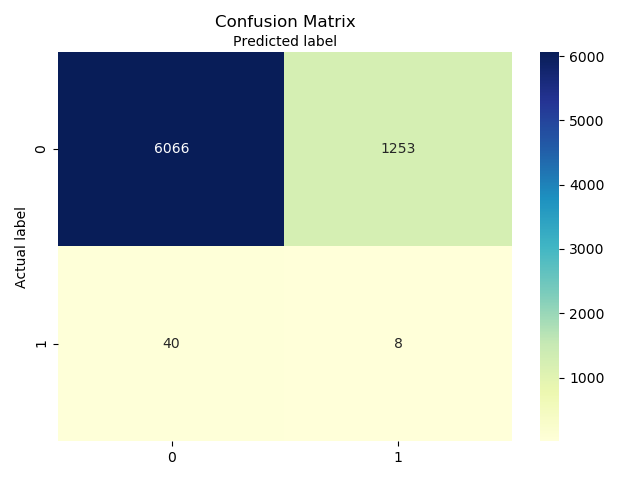
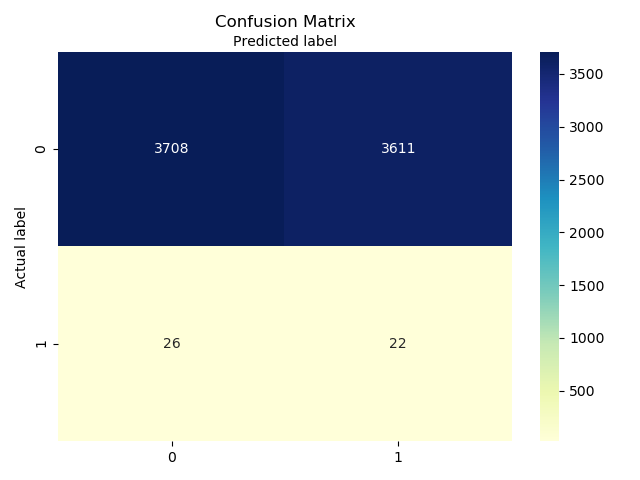
add completed experiments plot, compare training cross validation run and validation set predictions of a few runs to make sure we are not overfitting

diff --git a/experiments.py b/experiments.py
@@ -1,4 +1,4 @@
-from program_run_start_to_end import predict_cross_val_train_set
+from program_run_start_to_end import predict_cross_val_train_set, predict_test_validation_set
 import numpy as np
 import sklearn.metrics as metrics
 import matplotlib.pyplot as plt
@@ -16,12 +16,12 @@ def run_experiment_balance_solver(balancing_type, solver):
     for threshold in thresholds_list:
         for ngram in ngrams_list:
 
-            train_OUTPUT, predicted_OUTPUT, prediction_probs = predict_cross_val_train_set(0.4,
+            train_OUTPUT, predicted_OUTPUT, prediction_probs = predict_test_validation_set(0.4,
                                                                                           balancing_type,
                                                                                           solver,
                                                                                           ngram[0],
                                                                                           ngram[1])
-            plot(train_OUTPUT, predicted_OUTPUT, prediction_probs, balancing_type, solver, threshold, ngram[0],
+            plot(train_OUTPUT, predicted_OUTPUT, prediction_probs, balancing_type, solver, 0.4, ngram[0],
                                   ngram[1])
             break
         break
@@ -42,90 +42,63 @@ def run_all_experiments():
 def plot(test_OUTPUT, predicted_OUTPUT, prediction_probs, balancing_type, solver, threshold, ngram_min, ngram_max):
 
     fig, ax = plt.subplots()
+
     # true positive rate
     recall = metrics.recall_score(test_OUTPUT, predicted_OUTPUT)
 
     # no skill prediction
     no_skill_probs = [0 for _ in range(len(test_OUTPUT))]
 
-    # calculate scores
-    no_skill_auc = metrics.roc_auc_score(test_OUTPUT, no_skill_probs)
+    # calculate AUC score
     model_auc = metrics.roc_auc_score(test_OUTPUT, prediction_probs)
 
     # calculate roc curves
-    no_skills_false_pos_rate, no_skill_true_pos_rate, no_skill_thresholds = metrics.roc_curve(test_OUTPUT, no_skill_probs)
-    model_false_positive_rate, model_true_pos_rate, model_thresholds = metrics.roc_curve(test_OUTPUT, prediction_probs)
-
+    no_skills_false_pos_rate, no_skill_true_pos_rate, no_skill_thresholds = metrics.roc_curve(test_OUTPUT,
+                                                                                              no_skill_probs)
+    model_false_positive_rate, model_true_pos_rate, model_thresholds = metrics.roc_curve(test_OUTPUT,
+                                                                                         prediction_probs)
+    # string to be outputted in a text box
     experiment_params = '\n'.join((
         'Balancing type:  {}'.format(balancing_type),
         'Solver:  {}'.format(solver),
         'Threshold:  {}'.format(threshold),
         'N-grams:  ({}, {})'.format(ngram_min, ngram_max),
         'AUC:  %.3f' % (model_auc,),
-        'Recall:  %.3f' % (recall,),
+        'Recall:  %.3f' % (recall,)
     ))
 
+    # plot the auc curves
     ax.plot(model_false_positive_rate, model_true_pos_rate, marker='.', label='Logistic')
     ax.plot(no_skills_false_pos_rate, no_skill_true_pos_rate, linestyle='--', label='No skills')
-    # these are matplotlib.patch.Patch properties
-    props = dict(boxstyle='round', facecolor='none', edgecolor='black', alpha=0.7)
+    props = dict(boxstyle='round', facecolor='none', edgecolor='grey', alpha=0.7)
 
-    # place a text box in upper left in axes coords
-    ax.text(0.41, 0.3, experiment_params, transform=ax.transAxes, fontsize=10,
+    # place a text box in the bottom right
+    x, y = get_text_coordinates(balancing_type)
+    ax.text(x, y, experiment_params, transform=ax.transAxes, fontsize=10,
             verticalalignment='top', bbox=props)
 
     # axis labels
     plt.xlabel('False Positive Rate')
     plt.ylabel('True Positive Rate')
-    plt.legend(loc='best')
-
-    plt.show()
-
-
-def plot_evaluation_image(test_OUTPUT, predicted_OUTPUT, prediction_probs, balancing_type, solver, ngram_min, ngram_max):
-
-    # true positive rate
-    recall = metrics.recall_score(test_OUTPUT, predicted_OUTPUT)
-
-    model_auc = metrics.roc_auc_score(test_OUTPUT, prediction_probs)
-    print('Logistic: ROC AUC=%.3f' % model_auc)
-
-    # calculate roc curves
-    model_false_positive_rate, model_true_pos_rate, model_thresholds = metrics.roc_curve(test_OUTPUT, prediction_probs)
-
-    # plot the roc curve for the model
-    plt.plot(model_false_positive_rate, model_true_pos_rate, marker='.', label='Logistic Regression')
     plt.title('Area Under the ROC Curve')
+    plt.legend(bbox_to_anchor=(0.97, 0.35), loc='lower right', edgecolor='grey')
 
-    font = {'family': 'serif',
-            'color': 'darkred',
-            'weight': 'normal',
-            'size': 16,
-            }
+    plt_fig = plt.gcf()
+    plt_fig.tight_layout()
+    plt_fig.savefig('experiment_plots/{}-{}-{}-({},{}).png'.format(balancing_type, solver, threshold, ngram_min, ngram_max))
 
-   # plt.text(6, 6, 'some text\n another line', fontdict=font)
-
-    # axis labels
-    plt.xlabel('False Positive Rate')
-    plt.ylabel('True Positive Rate')
-
-    # show the legend
-    plt.legend(title='Recall: {}\nAUC={}' .format(recall, round(model_auc, 3)), loc='lower right')
-    # Tweak spacing to prevent clipping of ylabel
-   #  plt.subplots_adjust(left=0.15)
     plt.show()
 
-    '''
-    plt.tight_layout()
-    # show the plot
-    auc_fig = plt.gcf()
-    auc_fig.tight_layout()
-    plt.show()
-    plt.draw()
-    auc_fig.savefig('plots/auc_plt.png')
-    plt.clf()
-    '''
+
+def get_text_coordinates(balancing_type):
+
+    if balancing_type == 'SMOTE':
+        return 0.65, 0.3
+    elif balancing_type == 'over-sample positives':
+        return 0.465, 0.3
+    else:
+        return 0.465, 0.3
 
 
 # run_all_experiments()
-run_experiment_balance_solver('sub-sample negatives', 'lbfgs')
+# run_experiment_balance_solver('sub-sample negatives', 'lbfgs')

diff --git a/Main.py b/Main.py
@@ -2,24 +2,34 @@
 Main file to run the code. Two options: enter parameters using Gui or set parameters manually
 """
 from Gui import run_gui
-from program_run_start_to_end import predict_test_validation_set, plot_evaluation_metrics
+from program_run_start_to_end import predict_test_validation_set, plot_evaluation_metrics, predict_cross_val_train_set
 
+from experiments import plot
+from evaluation.confusion_matrix import get_confusion_matrix
 
 # variable to know if parameters are entered from Gui or manually
 parameters_set_manually = True
 
 if parameters_set_manually:
 
-    threshold = 0.5
+    threshold = 0.4
     balancing_types = ['SMOTE', 'sub-sample negatives', 'over-sample positives']
     solvers = ['newton-cg', 'lbfgs', 'liblinear', 'sag', 'saga']
     ngram_min = 1
     ngram_max = 1
+    print('on validation set: ')
     test_OUTPUT, predicted_OUTPUT, prediction_probs = predict_test_validation_set(threshold, balancing_types[1],
-                                                                             solvers[1], ngram_min, ngram_max)
+                                                                             solvers[2], ngram_min, ngram_max)
     # plot confusion_matrix, AUC, print accuracy
-    plot_evaluation_metrics(test_OUTPUT, predicted_OUTPUT, prediction_probs)
+    plot(test_OUTPUT, predicted_OUTPUT, prediction_probs, balancing_types[1], solvers[1], threshold, ngram_min, ngram_max)
+    get_confusion_matrix(test_OUTPUT, predicted_OUTPUT)
 
+    print('on train cross validation: ')
+    test_OUTPUT, predicted_OUTPUT, prediction_probs = predict_cross_val_train_set(threshold, balancing_types[1],
+                                                                                  solvers[2], ngram_min, ngram_max)
+    # plot confusion_matrix, AUC, print accuracy
+    plot(test_OUTPUT, predicted_OUTPUT, prediction_probs, balancing_types[1], solvers[1], threshold, ngram_min, ngram_max)
+    get_confusion_matrix(test_OUTPUT, predicted_OUTPUT)
 else:
     # enter parameters from Gui
     run_gui()

diff --git a/data_preparation/prepare_data.py b/data_preparation/prepare_data.py
@@ -41,7 +41,7 @@ def get_notes_dataframe():
     @return: pandas dataframe containing data from noteevents table
     """
 
-    notes = pd.read_csv(filedir_notes) # nrows=2000
+    notes = pd.read_csv(filedir_notes)
     # select only the discharge summary column
     notes_dis_sum = notes.loc[notes.CATEGORY == 'Discharge summary']
 
